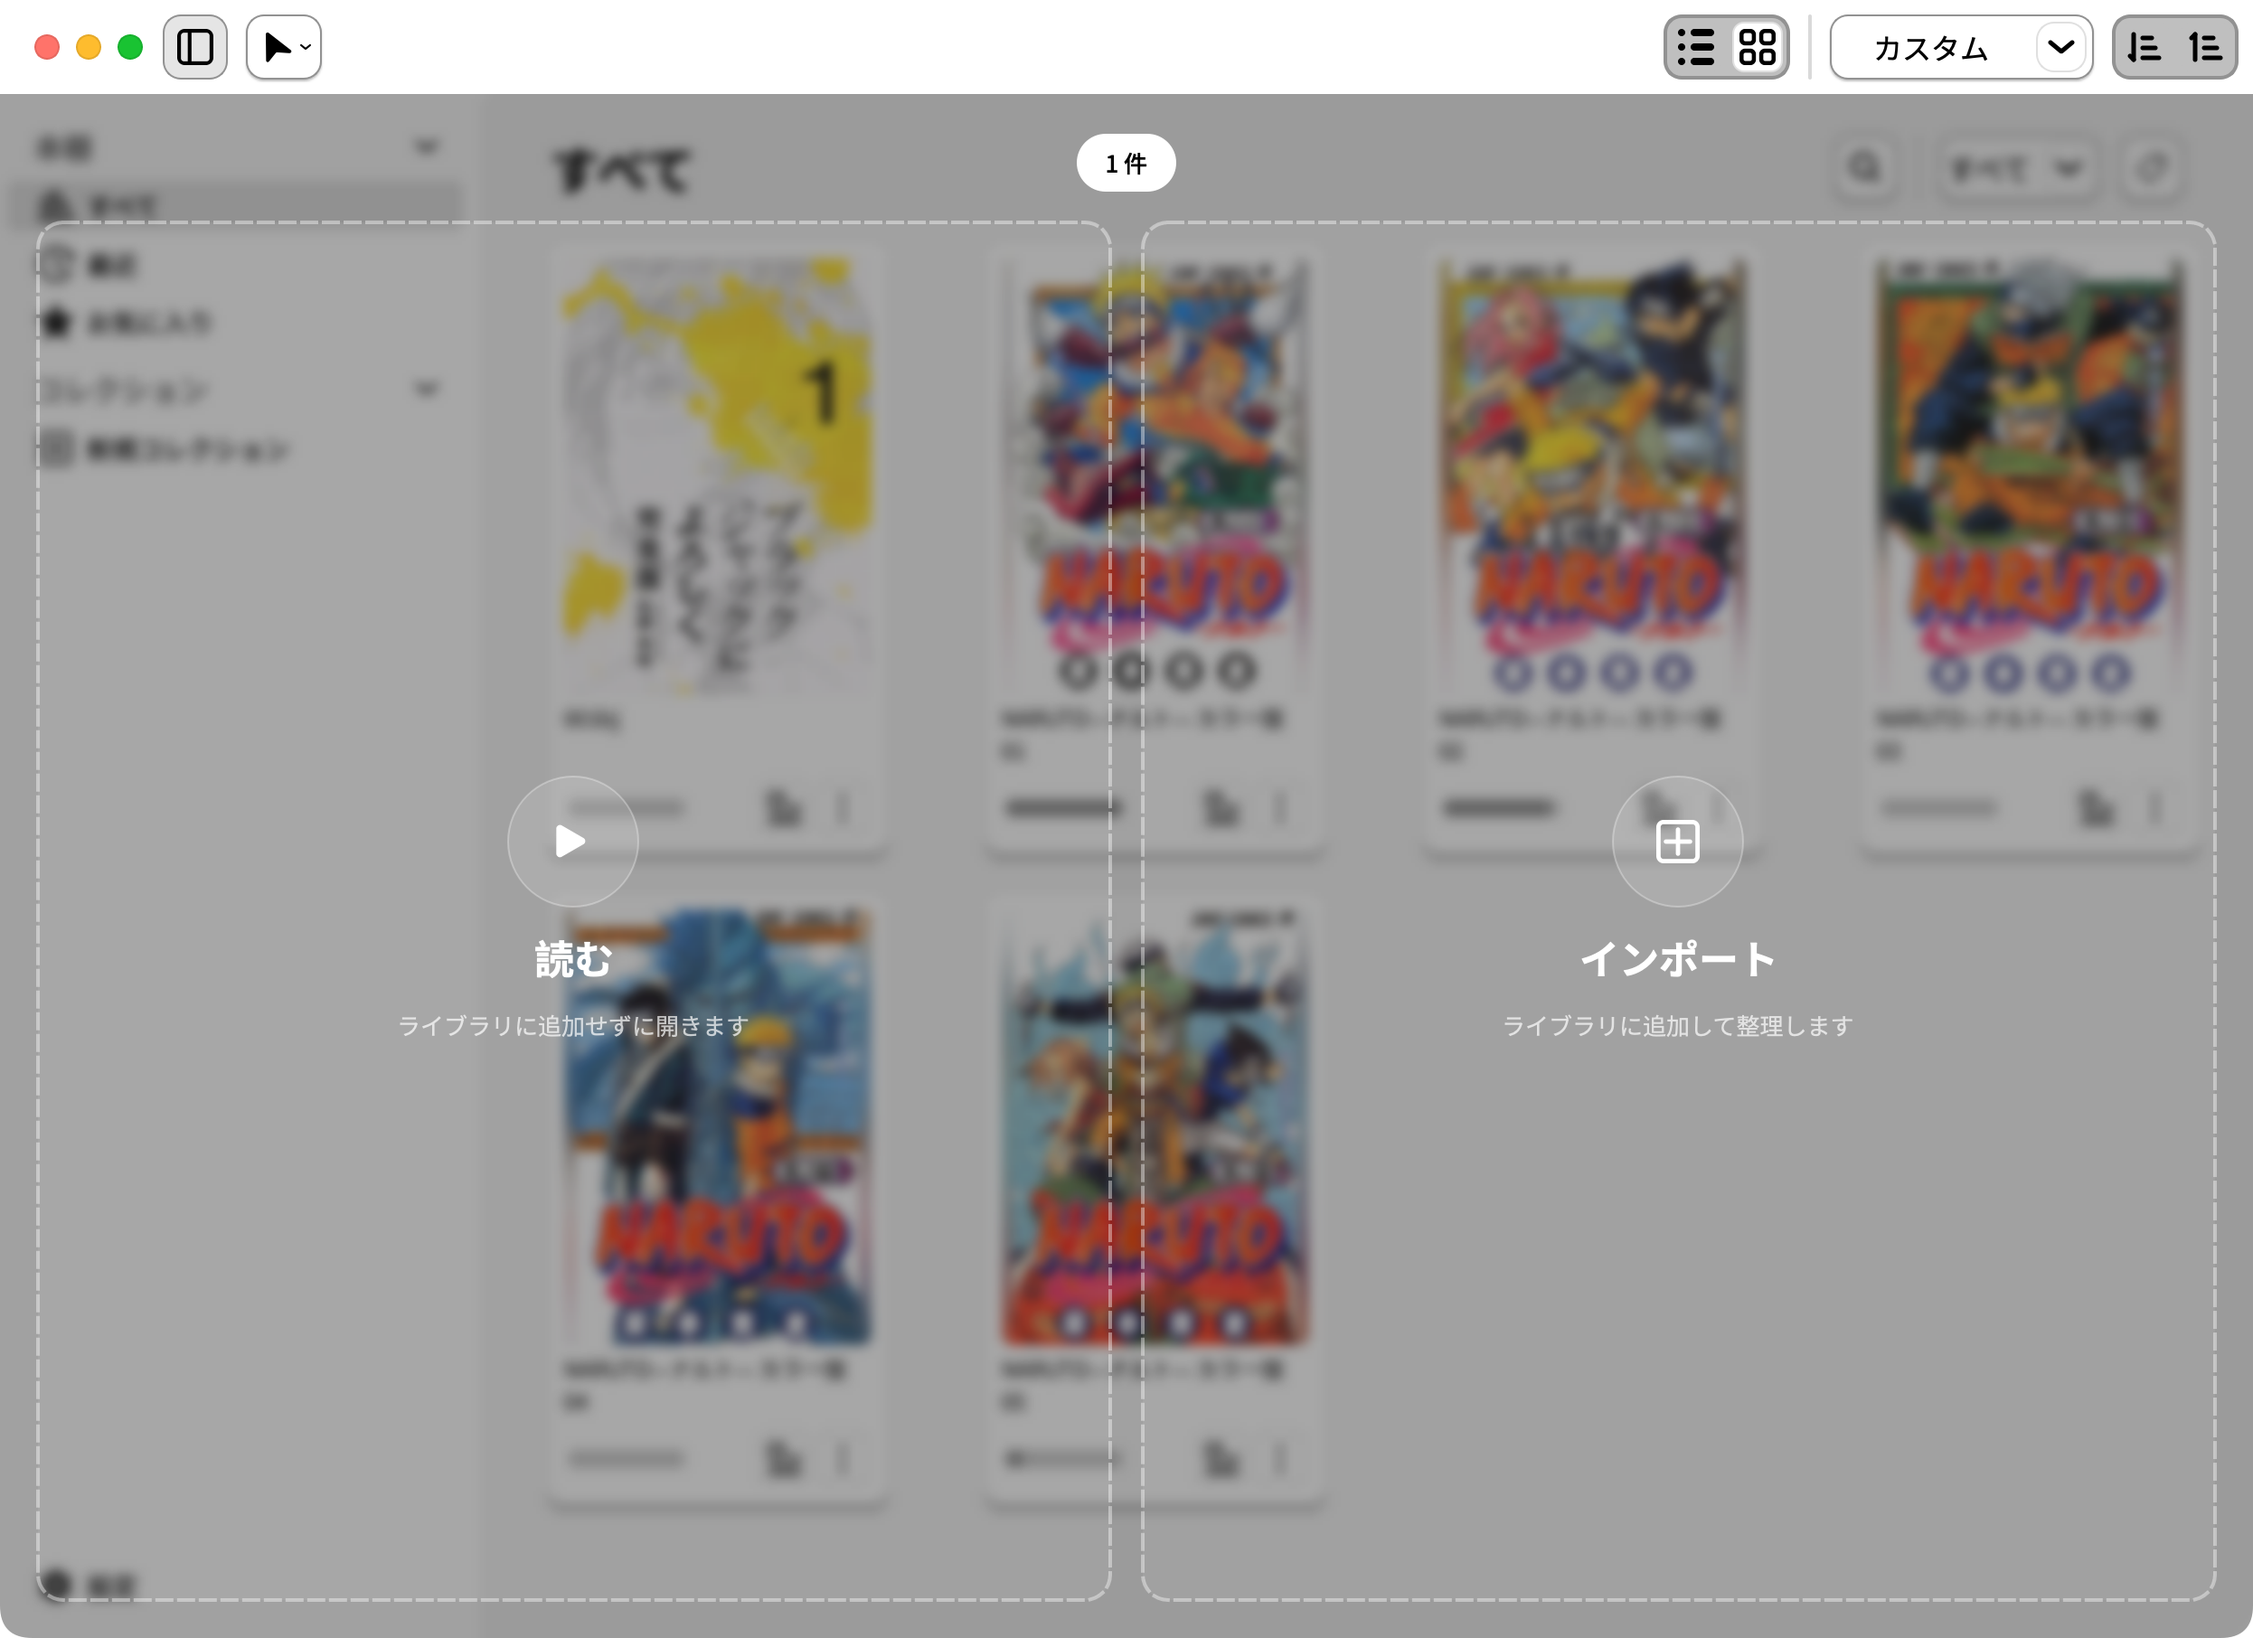
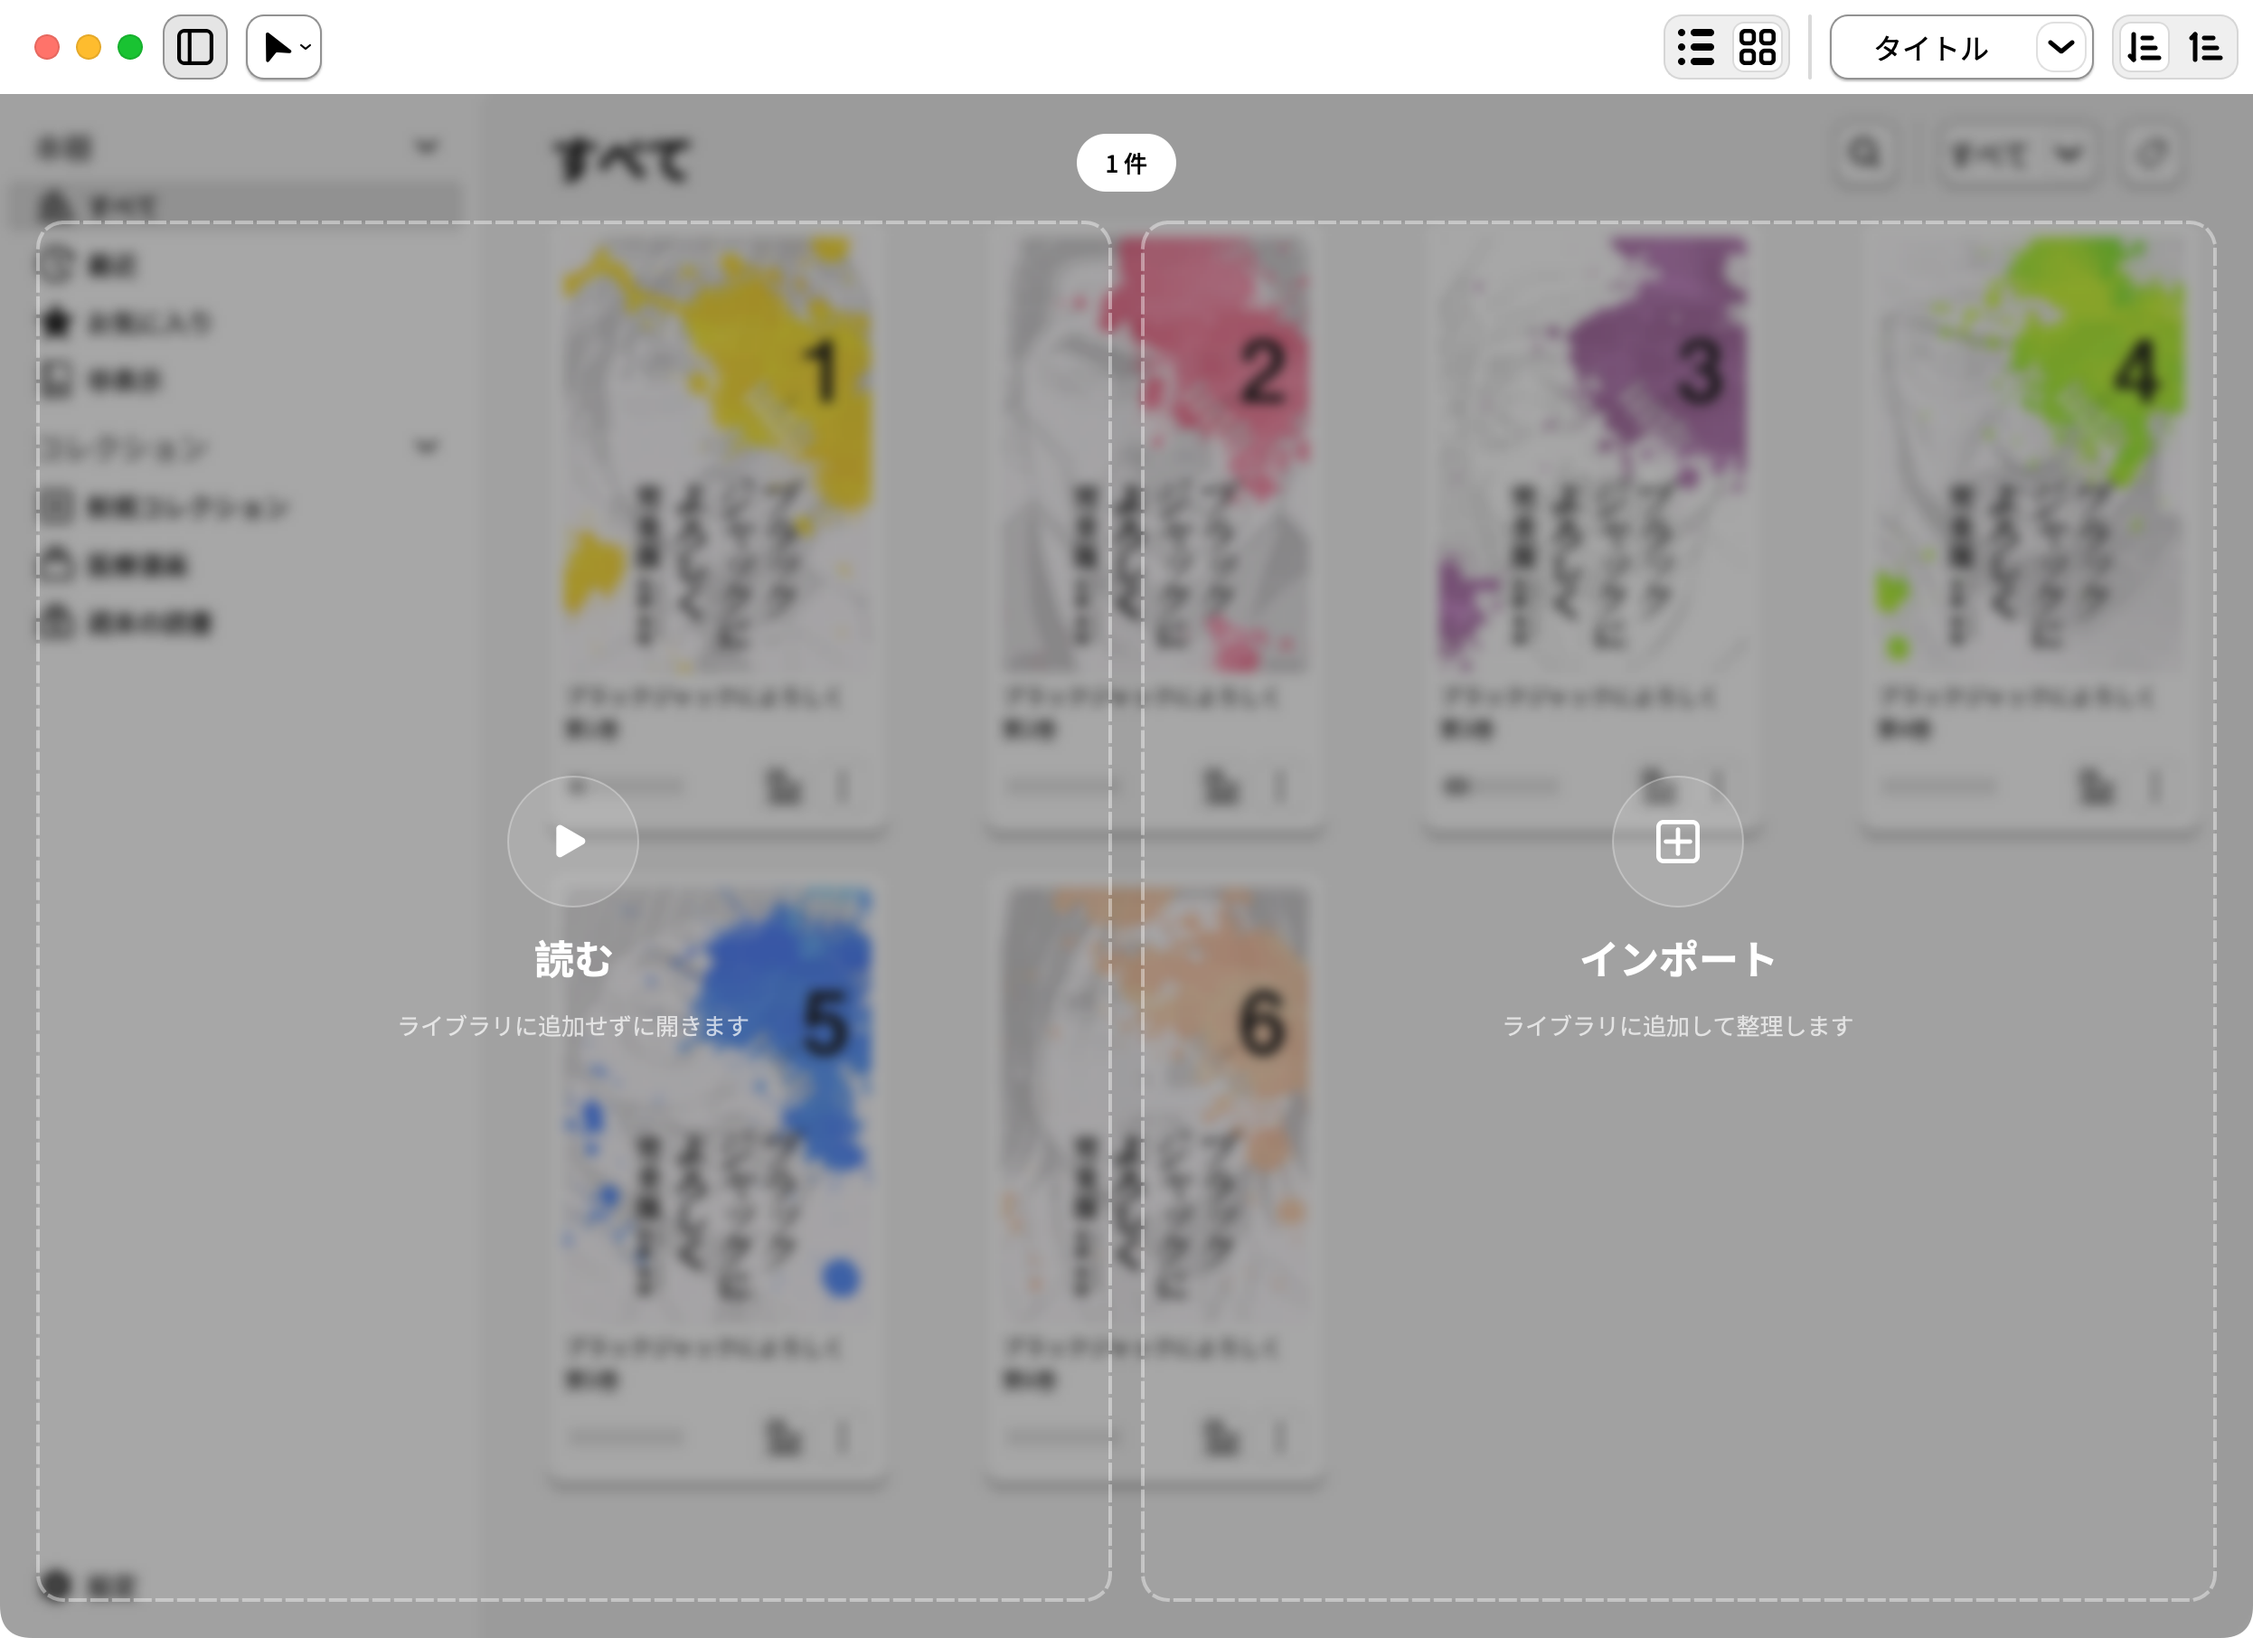
Replace promotional manga screenshots

diff --git a/README.ja.md b/README.ja.md
@@ -88,6 +88,8 @@ JoyRead は **macOS、Windows、Ubuntu/Linux** 向けのローカル漫画・PDF
 
 ## オープンソースと開発
 
-JoyRead は **[GNU GPL v3.0 only](LICENSE)** で公開しています。第三者コンポーネントのライセンスは [THIRD_PARTY_NOTICES.txt](packaging/THIRD_PARTY_NOTICES.txt) を参照してください。スクリーンショット内の表紙・本文の権利は各権利者に帰属し、書籍はアプリに含まれず、JoyRead のソフトウェアライセンスの対象にもなりません。
+JoyRead は **[GNU GPL v3.0 only](LICENSE)** で公開しています。第三者コンポーネントのライセンスは [THIRD_PARTY_NOTICES.txt](packaging/THIRD_PARTY_NOTICES.txt) を参照してください。
+
+スクリーンショットでは、佐藤秀峰『ブラックジャックによろしく』の公式電子版を[二次利用規約](https://densho810.com/free/)に基づいて使用しています。
 
 ソースからの起動は英語版の [Development](README.md#development)、操作の詳細は[マニュアル](docs/MANUAL.ja.md)、ビルド手順は[パッケージガイド](docs/PACKAGING.md)を参照してください。

diff --git a/README.zh-CN.md b/README.zh-CN.md
@@ -88,6 +88,8 @@
 
 ## 开源与开发
 
-JoyRead 采用 **[GNU GPL v3.0 only](LICENSE)**；第三方组件许可见 [THIRD_PARTY_NOTICES.txt](packaging/THIRD_PARTY_NOTICES.txt)。示例截图中的书籍封面和页面版权归各自权利人所有，不随软件附赠，也不受 JoyRead 软件许可授权。
+JoyRead 采用 **[GNU GPL v3.0 only](LICENSE)**。第三方组件许可见 [THIRD_PARTY_NOTICES.txt](packaging/THIRD_PARTY_NOTICES.txt)。
+
+截图中的漫画为《Give My Regards to Black Jack》，作者 **SHUHO SATO**。截图使用官方电子版，适用[出版方的二次使用条款](https://densho810.com/free/)。
 
 源码运行步骤见英文版的 [Development](README.md#development)，完整控件说明见[使用手册](docs/MANUAL.zh-CN.md)，构建步骤见[打包指南](docs/PACKAGING.md)。

diff --git a/README.md b/README.md
@@ -131,4 +131,4 @@ The novel reader remains disabled and separate from the shipping app. Its option
 
 JoyRead is free and open-source software under **[GNU GPL v3.0 only](LICENSE)**. See [THIRD_PARTY_NOTICES.txt](packaging/THIRD_PARTY_NOTICES.txt) for bundled component licenses.
 
-Book covers and pages in the supplied screenshots belong to their respective rights holders. These books are not bundled with JoyRead and are not licensed under JoyRead's software license.
+Screenshots feature *Give My Regards to Black Jack* by **SHUHO SATO**, using the official digital edition under the [publisher’s secondary-use terms](https://densho810.com/free/).
